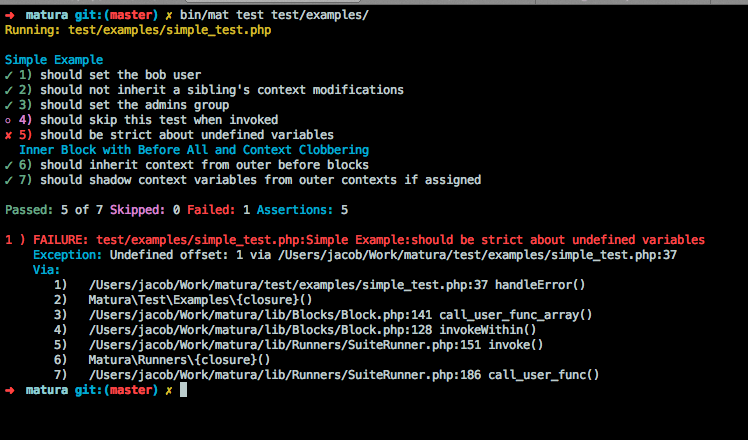
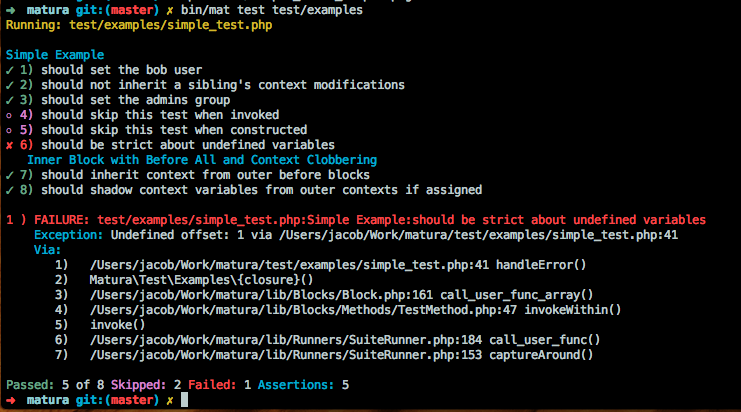
Updated documentation and sample graphic.

Changed region(s): [[0.0, 0.5243, 1.0, 1.0], [0.0, 0.1165, 0.6518, 0.4951], [0.0, 0.0, 1.0, 0.0874]]

diff --git a/README.md b/README.md
@@ -78,7 +78,10 @@ This is how it looks if you run: `bin/mat test test/examples`.
 
 	bin/mat test <path> [--filter=] [--grep=]
 
-Tests can be filtered by filename using the `--filter` option. If you wish to filter specific tests within a suite/file, use `--grep`. Matura will be clever enough to run the requisite before/after hooks - hopefully. We're still fairly alpha ;)
+Tests can be filtered by filename using the `--filter` option. If you wish to
+filter specific tests within a suite/file, use `--grep`. Matura will be clever
+enough to run the requisite before/after hooks - hopefully. We're still fairly
+alpha ;)
 
 ## Further Documentation
 
@@ -87,15 +90,17 @@ Unfortunately, for now: the [tests](test/functional) [themselves](test/integrati
 * [In what order is everything run?](test/functional/test_ordering.php)
 * [What is that $ctx parameter?](test/functional/test_context.php)
 
-
 ## Naive Todo List
 
-
-* There's currently nothing like PHPUnit's backupGlobals.
-* xit / xdescribe are skipped, but this is not indicated in the ui.
+* There's currently nothing like PHPUnit's backupGlobals. Maybe there shouldn't
+  be - I feel a better way to find inadvertent coupling / dependencies on global
+  variables may be to add functionality that randomizes test ordering.
 * Backtraces annoyingly include calls internal to the framework.
-* I'm a fan of [contract tests](http://c2.com/cgi/wiki?AbstractTestCases). Class-based tests seem better suited to them, however so I'm in need of inspiration wrt to the callback-driven dsl that matura uses.
+* I'm a fan of [contract tests](http://c2.com/cgi/wiki?AbstractTestCases).
+  Class-based tests seem better suited to them, however so I'm in need of
+  inspiration wrt to the callback-driven dsl that matura uses.
 
 ## Thanks!
 
-* [Ben Zittlau](https://github.com/benzittlau) - PHPUsable which brings similar syntax to PHPUnit. Helped me realize this was a worthwhile diversion.
+* [Ben Zittlau](https://github.com/benzittlau) - PHPUsable which brings similar
+   syntax to PHPUnit. Helped me realize this was a worthwhile diversion.
